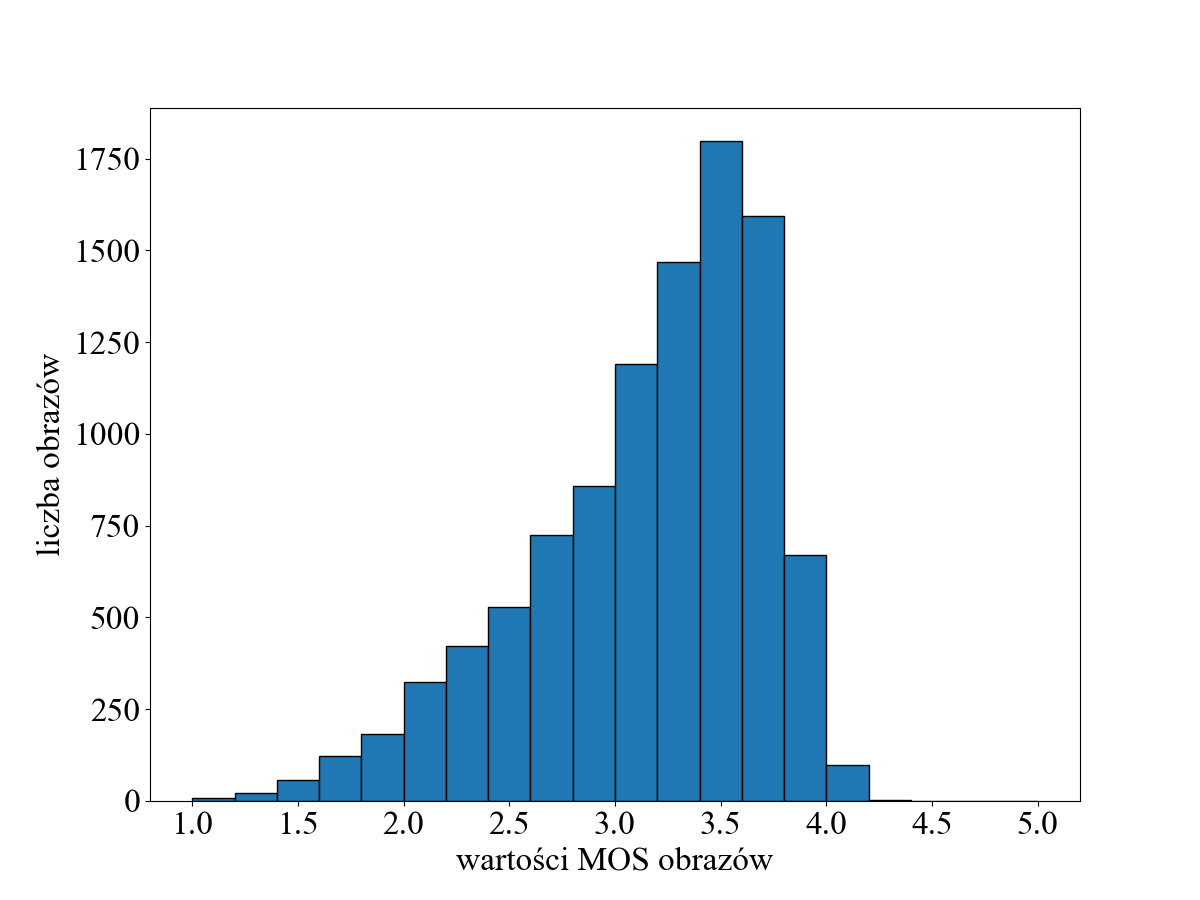
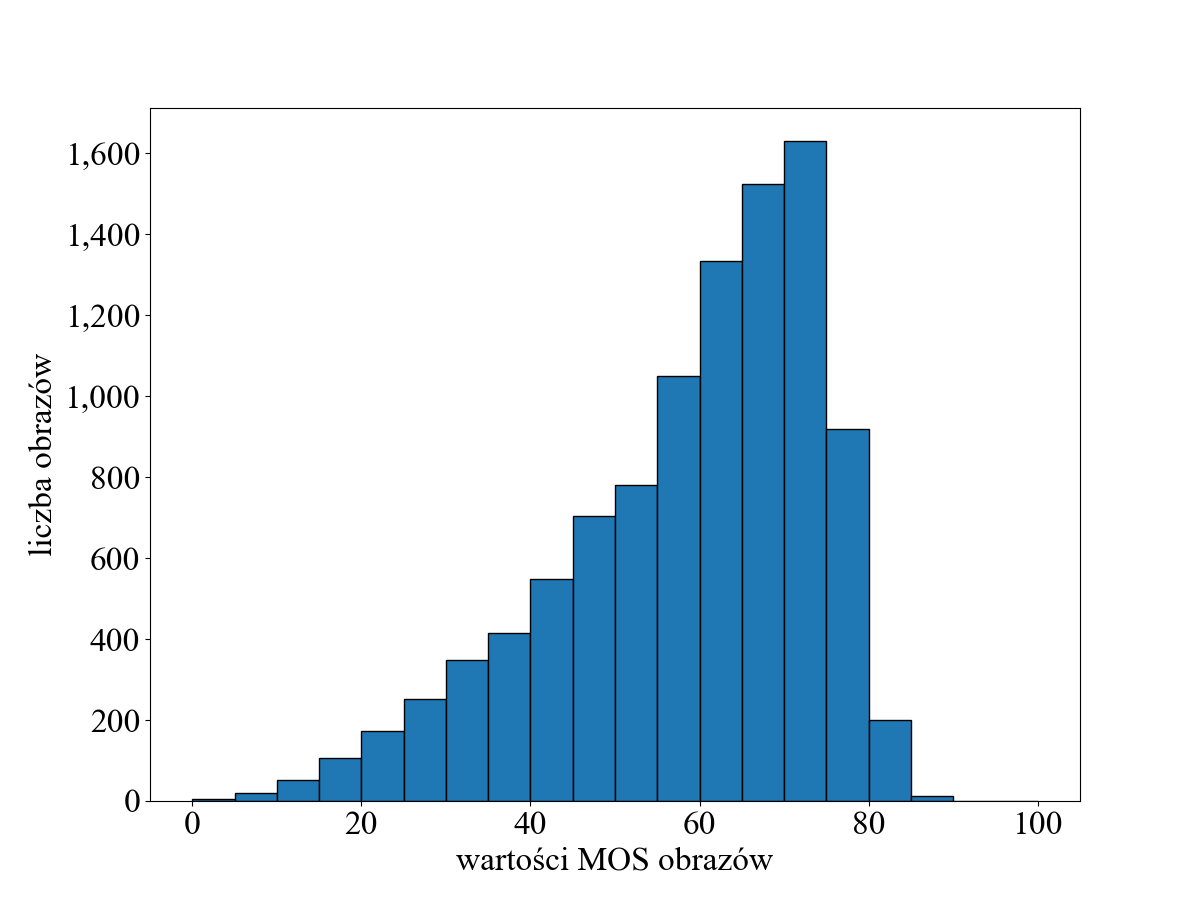
minor changes, viz

diff --git a/helpersmag/trainingUtils.py b/helpersmag/trainingUtils.py
@@ -23,7 +23,7 @@ import argparse
 from typing import List, Tuple
 
 
-def prepareDataset(initData:InitData, trainTransList:List[nn.Module], testTransList:List[nn.Module]) -> Tuple[Dataset, Dataset]:
+def prepareDataset(initData:InitData, trainTransList:List[nn.Module], testTransList:List[nn.Module], load_img = True) -> Tuple[Dataset, Dataset]:
     """
     returns [trainDataset, testDataset] 
     throws error if dataset is not valid
@@ -32,16 +32,16 @@ def prepareDataset(initData:InitData, trainTransList:List[nn.Module], testTransL
         from Datasets.LiveDataset import LIVEDataset, LIVE_PATH
         trainTrans = v2.Compose(trainTransList) if trainTransList else None
         testTrans = v2.Compose(testTransList) if testTransList else None
-        trainDataset = LIVEDataset(LIVE_PATH, True,trainTrans,seed=initData.seed, normalize=initData.dataset_normalized)
-        testDataset = LIVEDataset(LIVE_PATH, False,testTrans,seed=initData.seed, normalize=initData.dataset_normalized)
+        trainDataset = LIVEDataset(LIVE_PATH, True,trainTrans,seed=initData.seed, normalize=initData.dataset_normalized, load_img=load_img)
+        testDataset = LIVEDataset(LIVE_PATH, False,testTrans,seed=initData.seed, normalize=initData.dataset_normalized, load_img=load_img)
         return trainDataset, testDataset
     
     if(initData.dataset == 'clive'):
         from Datasets.CLIVEDataset import CLIVEDataset, CLIVE_PATH
         trainTrans = v2.Compose(trainTransList) if trainTransList else None
         testTrans = v2.Compose(testTransList) if testTransList else None
-        trainDataset = CLIVEDataset(CLIVE_PATH, True,trainTrans,seed=initData.seed, normalize=initData.dataset_normalized)
-        testDataset = CLIVEDataset(CLIVE_PATH, False,testTrans,seed=initData.seed, normalize=initData.dataset_normalized)
+        trainDataset = CLIVEDataset(CLIVE_PATH, True,trainTrans,seed=initData.seed, normalize=initData.dataset_normalized, load_img=load_img)
+        testDataset = CLIVEDataset(CLIVE_PATH, False,testTrans,seed=initData.seed, normalize=initData.dataset_normalized, load_img=load_img)
         return trainDataset, testDataset
     
 
@@ -49,16 +49,16 @@ def prepareDataset(initData:InitData, trainTransList:List[nn.Module], testTransL
         from Datasets.CISQDataset import CISQDataset, CISQ_PATH
         trainTrans = v2.Compose(trainTransList) if trainTransList else None
         testTrans = v2.Compose(testTransList) if testTransList else None
-        trainDataset = CISQDataset(CISQ_PATH, True,trainTrans,seed=initData.seed)
-        testDataset = CISQDataset(CISQ_PATH, False,testTrans,seed=initData.seed)
+        trainDataset = CISQDataset(CISQ_PATH, True,trainTrans,seed=initData.seed, load_img=load_img)
+        testDataset = CISQDataset(CISQ_PATH, False,testTrans,seed=initData.seed, load_img=load_img)
         return trainDataset, testDataset
 
     if(initData.dataset == 'kadid10k'):
         from Datasets.Kadid10kDataset import Kadid10kDataset, KADID10K_PATH
         trainTrans = v2.Compose(trainTransList) if trainTransList else None
         testTrans = v2.Compose(testTransList) if testTransList else None
-        trainDataset = Kadid10kDataset(KADID10K_PATH, True,trainTrans,seed=initData.seed, normalize=initData.dataset_normalized)
-        testDataset = Kadid10kDataset(KADID10K_PATH, False,testTrans,seed=initData.seed, normalize=initData.dataset_normalized)
+        trainDataset = Kadid10kDataset(KADID10K_PATH, True,trainTrans,seed=initData.seed, normalize=initData.dataset_normalized, loadImg=load_img)
+        testDataset = Kadid10kDataset(KADID10K_PATH, False,testTrans,seed=initData.seed, normalize=initData.dataset_normalized, loadImg=load_img)
         return trainDataset, testDataset
     
 
@@ -66,8 +66,8 @@ def prepareDataset(initData:InitData, trainTransList:List[nn.Module], testTransL
         from Datasets.BIQ2021Dataset import BIQ2021Dataset, BIQ2021_PATH
         trainTrans = v2.Compose(trainTransList) if trainTransList else None
         testTrans = v2.Compose(testTransList) if testTransList else None
-        trainDataset = BIQ2021Dataset(BIQ2021_PATH, True,trainTrans,seed=initData.seed)
-        testDataset = BIQ2021Dataset(BIQ2021_PATH, False,testTrans,seed=initData.seed)
+        trainDataset = BIQ2021Dataset(BIQ2021_PATH, True,trainTrans,seed=initData.seed, load_img=load_img)
+        testDataset = BIQ2021Dataset(BIQ2021_PATH, False,testTrans,seed=initData.seed, load_img=load_img)
         return trainDataset, testDataset
     
     if(initData.dataset == 'koniq10k'):
@@ -77,8 +77,8 @@ def prepareDataset(initData:InitData, trainTransList:List[nn.Module], testTransL
         #     testTransList.insert(2,v2.Resize((512, 384)))
         trainTrans = v2.Compose(trainTransList) if trainTransList else None
         testTrans = v2.Compose(testTransList) if testTransList else None
-        trainDataset = Koniq10kData(KONIQ10K_PATH, True,trainTrans,seed=initData.seed, normalize=initData.dataset_normalized)
-        testDataset = Koniq10kData(KONIQ10K_PATH, False,testTrans,seed=initData.seed, normalize=initData.dataset_normalized)
+        trainDataset = Koniq10kData(KONIQ10K_PATH, True,trainTrans,seed=initData.seed, normalize=initData.dataset_normalized, loadImg=load_img)
+        testDataset = Koniq10kData(KONIQ10K_PATH, False,testTrans,seed=initData.seed, normalize=initData.dataset_normalized, loadImg=load_img)
         return trainDataset, testDataset
     
 
@@ -86,8 +86,8 @@ def prepareDataset(initData:InitData, trainTransList:List[nn.Module], testTransL
         from Datasets.Koniq10kDataset import Koniq10kData, KONIQ10K_PATH
         trainTrans = v2.Compose(trainTransList) if trainTransList else None
         testTrans = v2.Compose(testTransList) if testTransList else None
-        trainDataset = Koniq10kData(KONIQ10K_PATH, True,trainTrans,seed=initData.seed, normalize=initData.dataset_normalized,mos_z=True)
-        testDataset = Koniq10kData(KONIQ10K_PATH, False,testTrans,seed=initData.seed, normalize=initData.dataset_normalized,mos_z=True)
+        trainDataset = Koniq10kData(KONIQ10K_PATH, True,trainTrans,seed=initData.seed, normalize=initData.dataset_normalized,mos_z=True, loadImg=load_img)
+        testDataset = Koniq10kData(KONIQ10K_PATH, False,testTrans,seed=initData.seed, normalize=initData.dataset_normalized,mos_z=True, loadImg=load_img)
         return trainDataset, testDataset
 
     if(initData.dataset == "bid"):
@@ -97,16 +97,16 @@ def prepareDataset(initData:InitData, trainTransList:List[nn.Module], testTransL
             testTransList.insert(0,v2.Resize(size=None,max_size=512))
         trainTrans = v2.Compose(trainTransList) if trainTransList else None
         testTrans = v2.Compose(testTransList) if testTransList else None
-        trainDataset = BIDDataset(BID_PATH, True,trainTrans,seed=initData.seed, normalize=initData.dataset_normalized)
-        testDataset = BIDDataset(BID_PATH, False,testTrans,seed=initData.seed, normalize=initData.dataset_normalized)
+        trainDataset = BIDDataset(BID_PATH, True,trainTrans,seed=initData.seed, normalize=initData.dataset_normalized, loadImg=load_img)
+        testDataset = BIDDataset(BID_PATH, False,testTrans,seed=initData.seed, normalize=initData.dataset_normalized, loadImg=load_img)
         return trainDataset, testDataset
     
     if(initData.dataset == 'tid2013'):
         from Datasets.TID2013Dataset import TID2013Dataset, TID2013_PATH
         trainTrans = v2.Compose(trainTransList) if trainTransList else None
         testTrans = v2.Compose(testTransList) if testTransList else None
-        trainDataset = TID2013Dataset(TID2013_PATH, True,trainTrans,seed=initData.seed, normalize=initData.dataset_normalized)
-        testDataset = TID2013Dataset(TID2013_PATH, False,testTrans,seed=initData.seed, normalize=initData.dataset_normalized)
+        trainDataset = TID2013Dataset(TID2013_PATH, True,trainTrans,seed=initData.seed, normalize=initData.dataset_normalized, load_img=load_img)
+        testDataset = TID2013Dataset(TID2013_PATH, False,testTrans,seed=initData.seed, normalize=initData.dataset_normalized, load_img=load_img)
         return trainDataset, testDataset
 
     raise Exception(f"not supported dataset '{initData.dataset}'")

diff --git a/viz/modelComp.py b/viz/modelComp.py
@@ -5,6 +5,16 @@ from pathlib import Path
 import json
 import matplotlib.pyplot as plt
 import numpy as np
+import locale
+import matplotlib.ticker as ticker
+
+
+locale.setlocale(locale.LC_ALL, "pl_PL.utf8")
+plt.rcParams["axes.formatter.use_locale"] = True
+
+
+def format_func(value, tick_number):
+    return f"{value:.2f}".replace('.', ',')
 
[1 lines of base64/hex data omitted]
 
@@ -177,7 +187,8 @@ def add_label(bars):
         #     color = "w" 
         plt.text(bar.get_x() + bar.get_width()/2,
                 yval, 
-                round(yval, 5),
+                f"{yval:.5f}".replace('.', ','), 
+                # round(yval, 5),
                 ha='center', 
                 va=va,
                 fontsize=24,
@@ -272,7 +283,9 @@ def makeBarChart(ref_paths:List[str], pathsDict:List[DataPaths], sort = False, t
     marginCoef = 0.22
     plt.ylim(min_val - dminmax *marginCoef, max_val + dminmax*marginCoef)
     plt.tight_layout()
+    plt.gca().yaxis.set_major_formatter(ticker.FuncFormatter(format_func))
     plt.show()
+
 
     print("data")
     sortI = np.argsort(_means)
@@ -302,11 +315,11 @@ def main():
 #     # DataPaths("Bez normalizacji\n enkodowania pozycji", npe_f_paths),
 # ], False, "", True, 0)
     
-    makeBarChart(None, [
-    DataPaths("Oryginalna funkcja straty", ref_paths),
-    DataPaths("Strata rankongowa z\nadaptacyjnym marginesem", dml_paths),
-    # DataPaths("Dynamiczna strata\ntripletu", dtl_paths),
-], False,"", True,labelAnle=0)
+#     makeBarChart(None, [
+#     DataPaths("Oryginalna funkcja straty", ref_paths),
+#     DataPaths("Strata rankongowa z\nadaptacyjnym marginesem", dml_paths),
+#     # DataPaths("Dynamiczna strata\ntripletu", dtl_paths),
+# ], False,"", True,labelAnle=0)
     
 #     makeBarChart(None, [
 #     DataPaths("ResNet 50", ref_paths),
@@ -315,15 +328,15 @@ def main():
 # ], False, "", True, labelAnle=0)
     
 
-#     makeBarChart(None, [
-#     DataPaths("dropout 0.5", ref_paths),
-#     DataPaths("dropout 0.1", dr02_paths),
-# ], False, "", True,labelAnle=0)
+    makeBarChart(None, [
+    DataPaths("dropout 0,5", ref_paths),
+    DataPaths("dropout 0,1", dr02_paths),
+], False, "", True,labelAnle=0)
     
-#     makeBarChart(None, [
-#     DataPaths("dropout 0.5", ref_paths),
-#     DataPaths("dropout 0.1", dr02_paths),
-# ], False, "", True, draw_mae=True,labelAnle=0)
+    makeBarChart(None, [
+    DataPaths("dropout 0,5", ref_paths),
+    DataPaths("dropout 0,1", dr02_paths),
+], False, "", True, draw_mae=True,labelAnle=0)
 
 #     makeBarChart(None, [
 #     DataPaths("dropout 0.5", ref_paths),

diff --git a/viz/histClive.py b/viz/histClive.py
@@ -12,8 +12,11 @@ from torch.utils.data import DataLoader, Dataset
 from pathlib import Path
 import numpy as np
 from typing import Literal
+import locale
 
 
+locale.setlocale(locale.LC_ALL, "pl_PL.utf8")
+plt.rcParams["axes.formatter.use_locale"] = True
 
 
 def printHist(trainDataset:Dataset, testDataset:Dataset, datasetName:str, min, max, steps, mosDmos:Literal["MOS","DMOS"] = "MOS"):
@@ -26,6 +29,7 @@ def printHist(trainDataset:Dataset, testDataset:Dataset, datasetName:str, min, m
         lbs.append(lbl.item())
 
     print("making",datasetName)
+    print("min",np.min(lbs), "max", np.max(lbs))
     print(len(lbs))
     # print(lbs)
     numbins = 5
@@ -44,9 +48,9 @@ def printHist(trainDataset:Dataset, testDataset:Dataset, datasetName:str, min, m
     plt.savefig( p / (datasetName + ".png"))
     print("saved")
 
-train = clive.CLIVEDataset(clive.CLIVE_PATH,True,normalize=False,load_img=False)
-test = clive.CLIVEDataset(clive.CLIVE_PATH,False,normalize=False,load_img=False)
-printHist(train, test, "CLIVE",0,101,20)
+# train = clive.CLIVEDataset(clive.CLIVE_PATH,True,normalize=False,load_img=False)
+# test = clive.CLIVEDataset(clive.CLIVE_PATH,False,normalize=False,load_img=False)
+# printHist(train, test, "CLIVE",0,101,20)
 
 
 
@@ -69,14 +73,14 @@ printHist(train, test, "CLIVE",0,101,20)
 # printHist(train, test, "CISQ",0,1,20,"DMOS")
 
 
-# train = kadid.Kadid10kDataset(kadid.KADID10K_PATH ,True,normalize=False, loadImg=False)
-# test = kadid.Kadid10kDataset(kadid.KADID10K_PATH,False,normalize=False, loadImg=False)
-# printHist(train, test, "Kadid10k",1,5,20,"DMOS")
+train = kadid.Kadid10kDataset(kadid.KADID10K_PATH ,True,normalize=False, loadImg=False)
+test = kadid.Kadid10kDataset(kadid.KADID10K_PATH,False,normalize=False, loadImg=False)
+printHist(train, test, "Kadid10k",1,5,20,"DMOS")
 
 
-# train = koniq.Koniq10kData(koniq.KONIQ10K_PATH ,True,normalize=False, loadImg=False)
-# test = koniq.Koniq10kData(koniq.KONIQ10K_PATH,False,normalize=False, loadImg=False)
-# printHist(train, test, "Koniq10k",1,5,20,"MOS")
+# train = koniq.Koniq10kData(koniq.KONIQ10K_PATH ,True,normalize=False, loadImg=False,mos_z=True)
+# test = koniq.Koniq10kData(koniq.KONIQ10K_PATH,False,normalize=False, loadImg=False,mos_z=True)
+# printHist(train, test, "Koniq10k",0,100,20,"MOS")
 
 # train = tid.TID2013Dataset(tid.TID2013_PATH ,True,normalize=False,load_img=False)
 # test = tid.TID2013Dataset(tid.TID2013_PATH,False,normalize=False,load_img=False)

diff --git a/helpersmag/dataScatter.py b/helpersmag/dataScatter.py
@@ -23,7 +23,7 @@ def plotres(srcc:List[float], preds:List[List[float]], initData:Dict[str,any]=No
         initData.seed = 2137
         initData.dataset = "clive"
         initData.dataset_normalized = False
-    _, testDataset = prepareDataset(initData,[],[])
+    _, testDataset = prepareDataset(initData,[],[], load_img=False)
 
 
     pred = preds[index]
@@ -38,13 +38,16 @@ def plotres(srcc:List[float], preds:List[List[float]], initData:Dict[str,any]=No
     plt.rcParams["font.family"] = "Times New Roman"
     plt.rcParams["font.size"] = 14
     plt.figure(figsize=size)
+    print("max x ", lbl.max())
     plt.scatter(lbl, pred)
     # plt.plot(indexes,reg1,color="k", alpha=0.5, linestyle='--', linewidth=1)
     # plt.plot(indexes,reg2,color="c", alpha=0.5, linestyle='--', linewidth=1)
     plt.xlabel("wartość docelowa")
     plt.ylabel("wartość przewidywana")
-    plt.xlim(0, 100) 
-    plt.ylim(0, max(100, pred.max() + pred.max() * 0.1))
+    max_val = 5
+    min_val = 0
+    plt.xlim(min_val, max_val) 
+    plt.ylim(min(min_val,pred.min()), max(max_val, pred.max() + pred.max() * 0.1))
     plt.plot(indexes,indexes, color="b")
     # plt.show()
 
@@ -89,9 +92,12 @@ if __name__ == "__main__":
     name:str
     path, name, drawResIndex = parseArgs()
     
+
     
     if(path):
         resPath = path
+        if not str(path).startswith("/home"):
[1 lines of base64/hex data omitted]
     if(name):
         if(".json" not in name):
             name = name + ".json"
